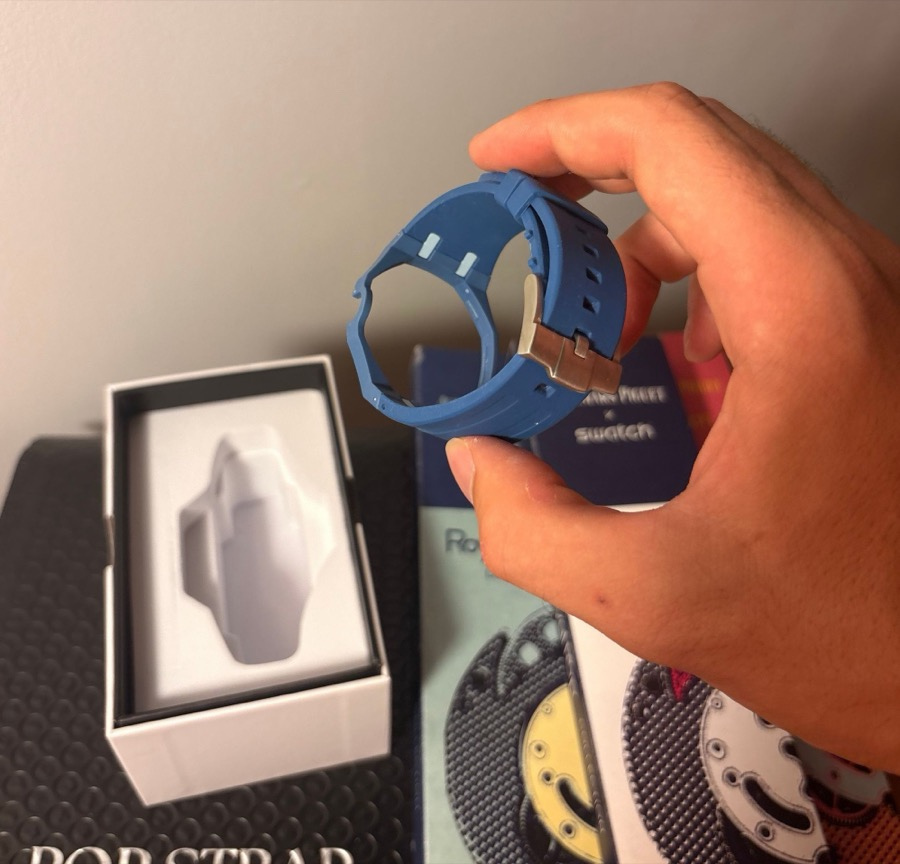
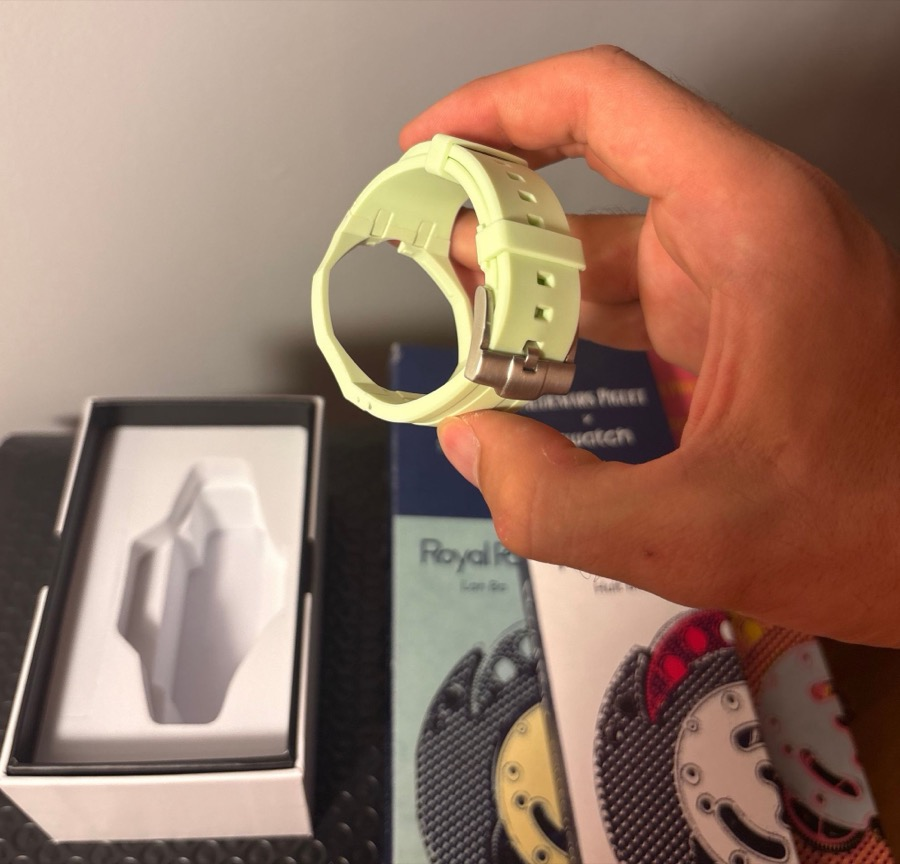
Fix 3-way Oyster photo mixup (Blaue Acht / Orenji Hachi / Lan Ba)
Photos 25-26 are Blaue Acht (not Orenji Hachi), photo 31 is Orenji
Hachi (not Lan Ba), photos 34-35 are Lan Ba (not Blaue Acht).

diff --git a/scripts/fix-round4.js b/scripts/fix-round4.js
@@ -1,0 +1,36 @@
+// Fix: 3-way mixup in Oyster real photos.
+// 25-26 (was Orenji Hachi) -> Blaue Acht
+// 31 (was Lan Ba) -> Orenji Hachi
+// 34-35 (was Blaue Acht) -> Lan Ba
+const { supabase } = require("../lib/db");
+
+async function setGallery(handle, images) {
+  const { data: product, error } = await supabase.from("products").select("id, gallery").eq("handle", handle).maybeSingle();
+  if (error) throw error;
+  if (!product) throw new Error(`Product not found: ${handle}`);
+  const { error: updateError } = await supabase.from("products").update({ gallery: images }).eq("id", product.id);
+  if (updateError) throw updateError;
+  console.log(`OK: ${handle} -> ${JSON.stringify(images)}`);
+}
+
+async function run() {
+  await setGallery("bracelet-oyster-blaue-acht", [
+    "/img/colors/oyster-blaue-acht.jpg",
+    "/img/real/oyster-blaue-acht-a.jpg",
+    "/img/real/oyster-blaue-acht-b.jpg",
+  ]);
+  await setGallery("bracelet-oyster-orenji-hachi", [
+    "/img/colors/oyster-orenji-hachi.jpg",
+    "/img/real/oyster-orenji-hachi-a.jpg",
+  ]);
+  await setGallery("bracelet-oyster-lan-ba", [
+    "/img/colors/oyster-lan-ba.jpg",
+    "/img/real/oyster-lan-ba-a.jpg",
+    "/img/real/oyster-lan-ba-b.jpg",
+  ]);
+}
+
+run().then(() => process.exit(0)).catch((err) => {
+  console.error(err);
+  process.exit(1);
+});
